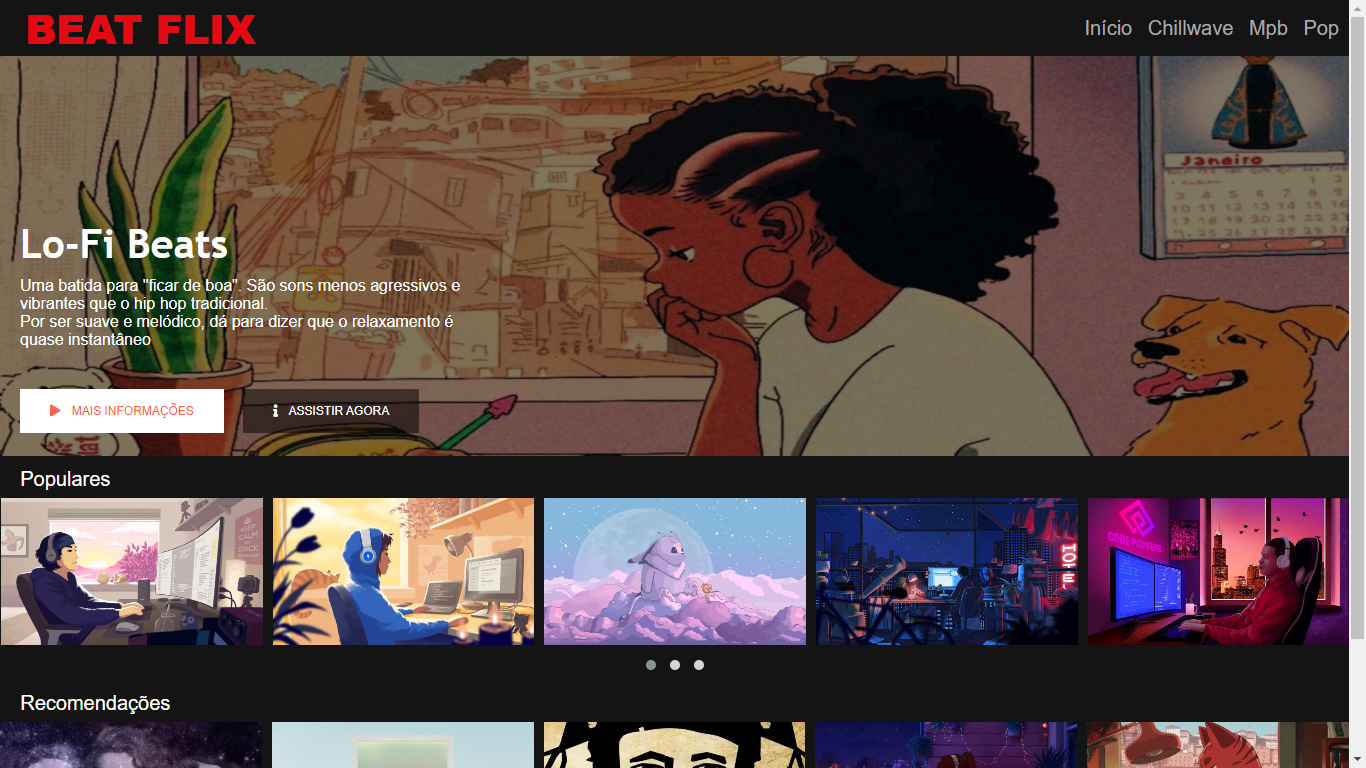
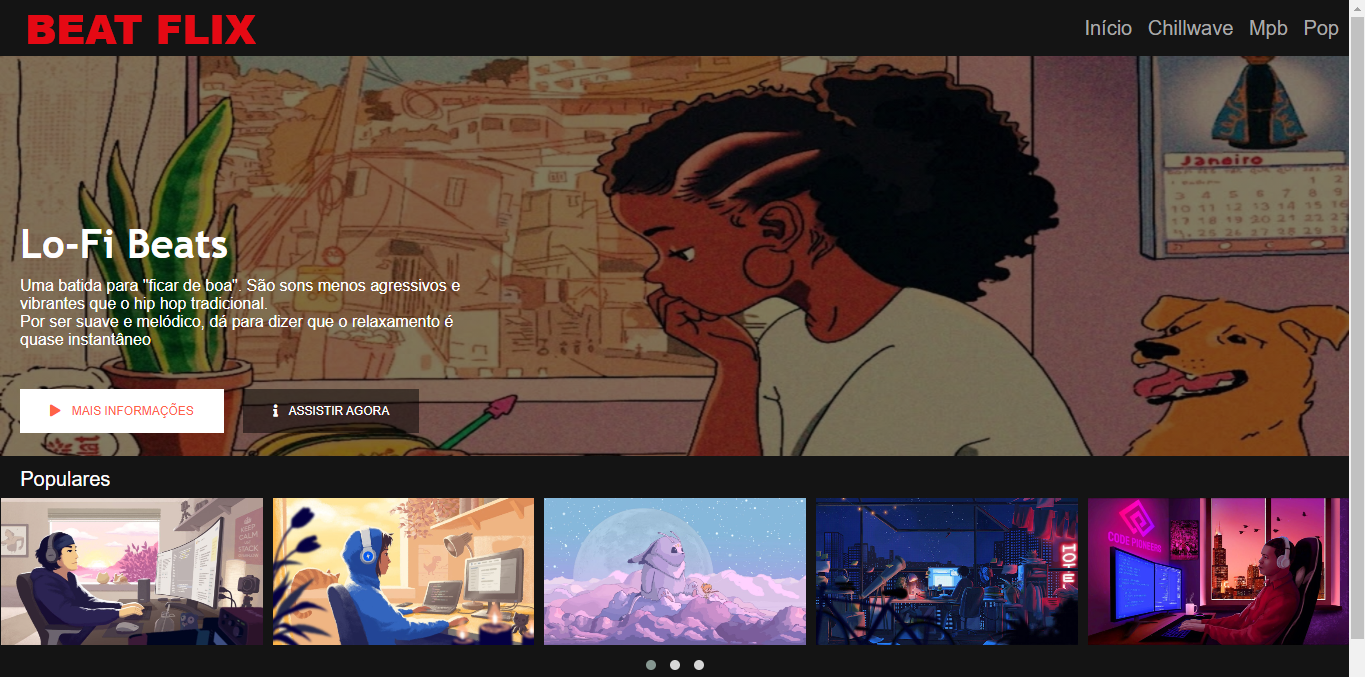
resize interface images

diff --git a/readme.MD b/readme.MD
@@ -1,7 +1,26 @@
-# Atividade proposta da DIO de Recriar a Interface da Netflix 
-## Desenvolvido usando HTML, CSS, JQUERY, JS
 
-### Após a conclusão fiz algumas modificações, incluindo a "ideia" da plataforma e alguns detalhes estéticos, sendo esta focada em playlists de lofi para programar e estudar.
+# <h1 align="center"> Beat Flix :notes: :notes:</h1>
+<p>
+<img src="https://img.shields.io/badge/-Html-E34F26?logo=HTML5&logoColor=white&style=for-the-badge"/>
+<img src="https://img.shields.io/badge/-css-1572b6?logo=CSS3&logoColor=white&style=for-the-badge"/>
+<img src="https://img.shields.io/badge/-Js-F7DF1E?logo=JavaScript&logoColor=white&style=for-the-badge"/>
+<img src="https://img.shields.io/badge/-JQuery-0769AD?logo=JQuery&logoColor=white&style=for-the-badge"/>
+<img src="https://img.shields.io/badge/-Github-181717?logo=GitHub&logoColor=white&style=for-the-badge"/>
+</p>
+
+## Intuito da plataforma :point_down:
+
+:trophy: Centralizar playlists <strong>lofi</strong> voltadas para estudos e atividades que requerem foco e concentração.
+
+:trophy: Curadoria das playlist de acordo com a vertente de seu estilo musical.
+
+:trophy: Recomendações baseadas nas atividades a ser realizada
+
+## Status do Projeto: Em desenvolvimento :warning:
+
+
+### Após a conclusão do projeto / desafio da DIO fiz algumas modificações sobre o projeto inicial e "mudei" também o foco  da plataforma.
 
 
 ![loficoding13](https://user-images.githubusercontent.com/56206316/114814013-ac327380-9d89-11eb-905b-0721709aa5a0.jpg)
+ 
